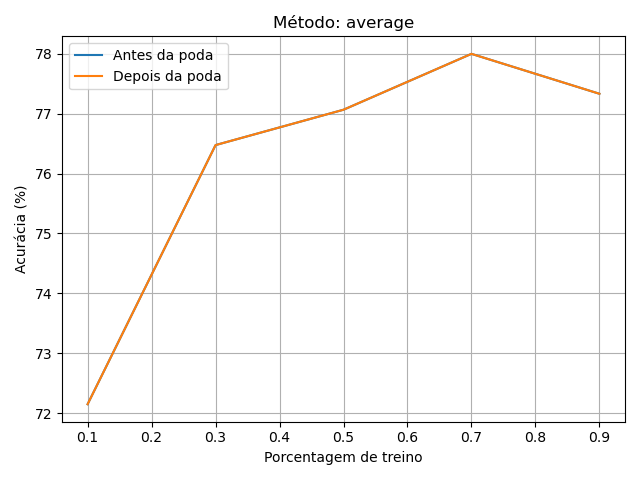
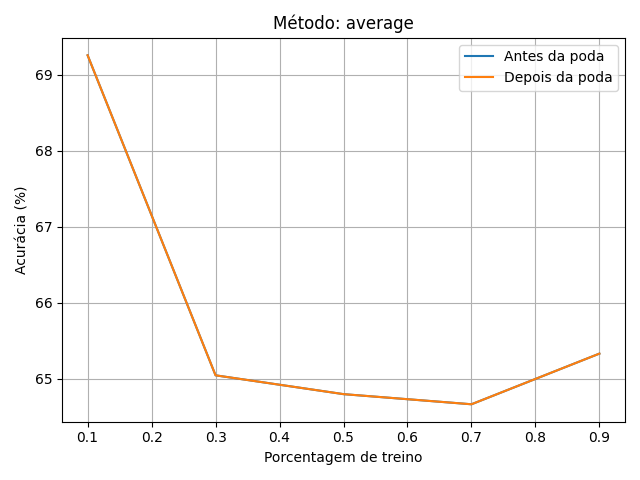
Testes corretos no c4.5

diff --git a/t2/c45.py b/t2/c45.py
@@ -4,7 +4,7 @@ from scipy.stats import norm
 import matplotlib.pyplot as plt
 import os
 
-MAX_DEPTH = 1
+MAX_DEPTH = 0
 NOS_PODADOS = 0
 
 class c45Node:
@@ -28,12 +28,12 @@ class c45Node:
         return count
     
     def build_tree(self):
-        if self.lvl > MAX_DEPTH or len(self.data) == 0:
+        if self.lvl > self.maxDepth or len(self.data) == 0:
             return
         att = None
         minEntropy = None
         minEntropyThreshold = None
-        for i in range(len(self.data[0])-1):
+        for i in range(1, len(self.data[0])-2): # Ignora o ID e a classe
             self.data = sorted(self.data, key=lambda x: x[i])
             threshold = self.calcThreshold(i, method=self.method)
             if threshold is None:
@@ -136,7 +136,7 @@ def validate(data, tree):
     for i in range(len(data)):
         if int(tree.classify(data[i])) == int(data[i][-1]):
             correct += 1
-        print(f"Classificando {i+1}/{len(data)}: {data[i]} -> {tree.classify(data[i])} (esperado: {data[i][-1]})")
+        #print(f"Classificando {i+1}/{len(data)}: {data[i]} -> {tree.classify(data[i])} (esperado: {data[i][-1]})")
     return correct / len(data)
 
 def pruning(tree, confidence, z=None, pruning_data=None):
@@ -184,48 +184,59 @@ def testar_variacoes(data_path="dataset/treino_sinais_vitais_com_label.csv"):
     training_percentages = [0.1, 0.3, 0.5, 0.7, 0.9]
     methods = ['median', 'average', 'entropy']
     confidence = 0
-    maxDepth = 3
+    maxDepth_values = [1, 3, 6, 9, 12]  # Vários máximos de profundidade para comparar
 
-    resultados = {method: {'antes': [], 'depois': []} for method in methods}
     os.makedirs("graficos/c45", exist_ok=True)
 
+    # Estrutura: resultados[method][maxDepth]['antes' ou 'depois'][i] = acurácia na i-ésima porcentagem
+    resultados = {
+        method: {
+            maxDepth: {'antes': [], 'depois': []} for maxDepth in maxDepth_values
+        }
+        for method in methods
+    }
+
     for method in methods:
-        for perc in training_percentages:
-            treino = data[:int(len(data)*perc)]
-            teste = data[int(len(data)*perc):]
+        for maxDepth in maxDepth_values:
+            for perc in training_percentages:
+                treino = data[:int(len(data)*perc)]
+                teste = data[int(len(data)*perc):]
 
-            split_index = int(len(treino) * 0.7)
-            treino_construcao = treino[:split_index]
-            treino_validacao = treino[split_index:]
+                split_index = int(len(treino) * 0.7)
+                treino_construcao = treino[:split_index]
+                treino_validacao = treino[split_index:]
 
-            tree = c45Node(treino_construcao, maxDepth=maxDepth, method=method)
-            tree.build_tree()
+                tree = c45Node(treino_construcao, maxDepth=maxDepth, method=method)
+                tree.build_tree()
 
-            acc_antes = validate(teste, tree)
-            NOS_PODADOS = 0
-            #print(f"Número de nós antes da poda: {tree.count_nodes()}")
-            pruning(tree, confidence=confidence, pruning_data=treino_validacao)
-            acc_depois = validate(teste, tree)
-            #print(f"Número de nós depois da poda: {tree.count_nodes()}")
-            #print(f"[{method.upper()} - {int(perc*100)}% treino] Nós podados: {NOS_PODADOS}")
-            #print(f"Acurácias método {method}:")
-            #print("Antes:", acc_antes)
-            #print("Depois:", acc_depois)
+                acc_antes = validate(teste, tree)
+                NOS_PODADOS = 0
+                pruning(tree, confidence=confidence, pruning_data=treino_validacao)
+                acc_depois = validate(teste, tree)
 
-            resultados[method]['antes'].append(acc_antes)
-            resultados[method]['depois'].append(acc_depois)
+                resultados[method][maxDepth]['antes'].append(acc_antes)
+                resultados[method][maxDepth]['depois'].append(acc_depois)
 
-        plt.figure()
-        plt.plot(training_percentages, [x * 100 for x in resultados[method]['antes']], label='Antes da poda')
-        plt.plot(training_percentages, [x * 100 for x in resultados[method]['depois']], label='Depois da poda')
-        plt.title(f"Método: {method}")
+        # Agora plota um gráfico por método com linhas para cada maxDepth
+        plt.figure(figsize=(10, 6))
+
+        for maxDepth in maxDepth_values:
+            plt.plot(training_percentages, 
+                     [x * 100 for x in resultados[method][maxDepth]['antes']], 
+                     label=f'Antes poda - Prof. {maxDepth}', linestyle='--')
+            plt.plot(training_percentages, 
+                     [x * 100 for x in resultados[method][maxDepth]['depois']], 
+                     label=f'Depois poda - Prof. {maxDepth}', linestyle='-')
+
+        plt.title(f"Acurácia x Porcentagem de Treino ({method})")
         plt.xlabel("Porcentagem de treino")
         plt.ylabel("Acurácia (%)")
         plt.legend()
         plt.grid(True)
         plt.tight_layout()
-        plt.savefig(f"graficos/c45/{method}_acuracia.png")
+        plt.savefig(f"graficos/c45/{method}_acuracia_comparativa.png")
         plt.close()
+
 
 if __name__ == "__main__":
     testar_variacoes()
